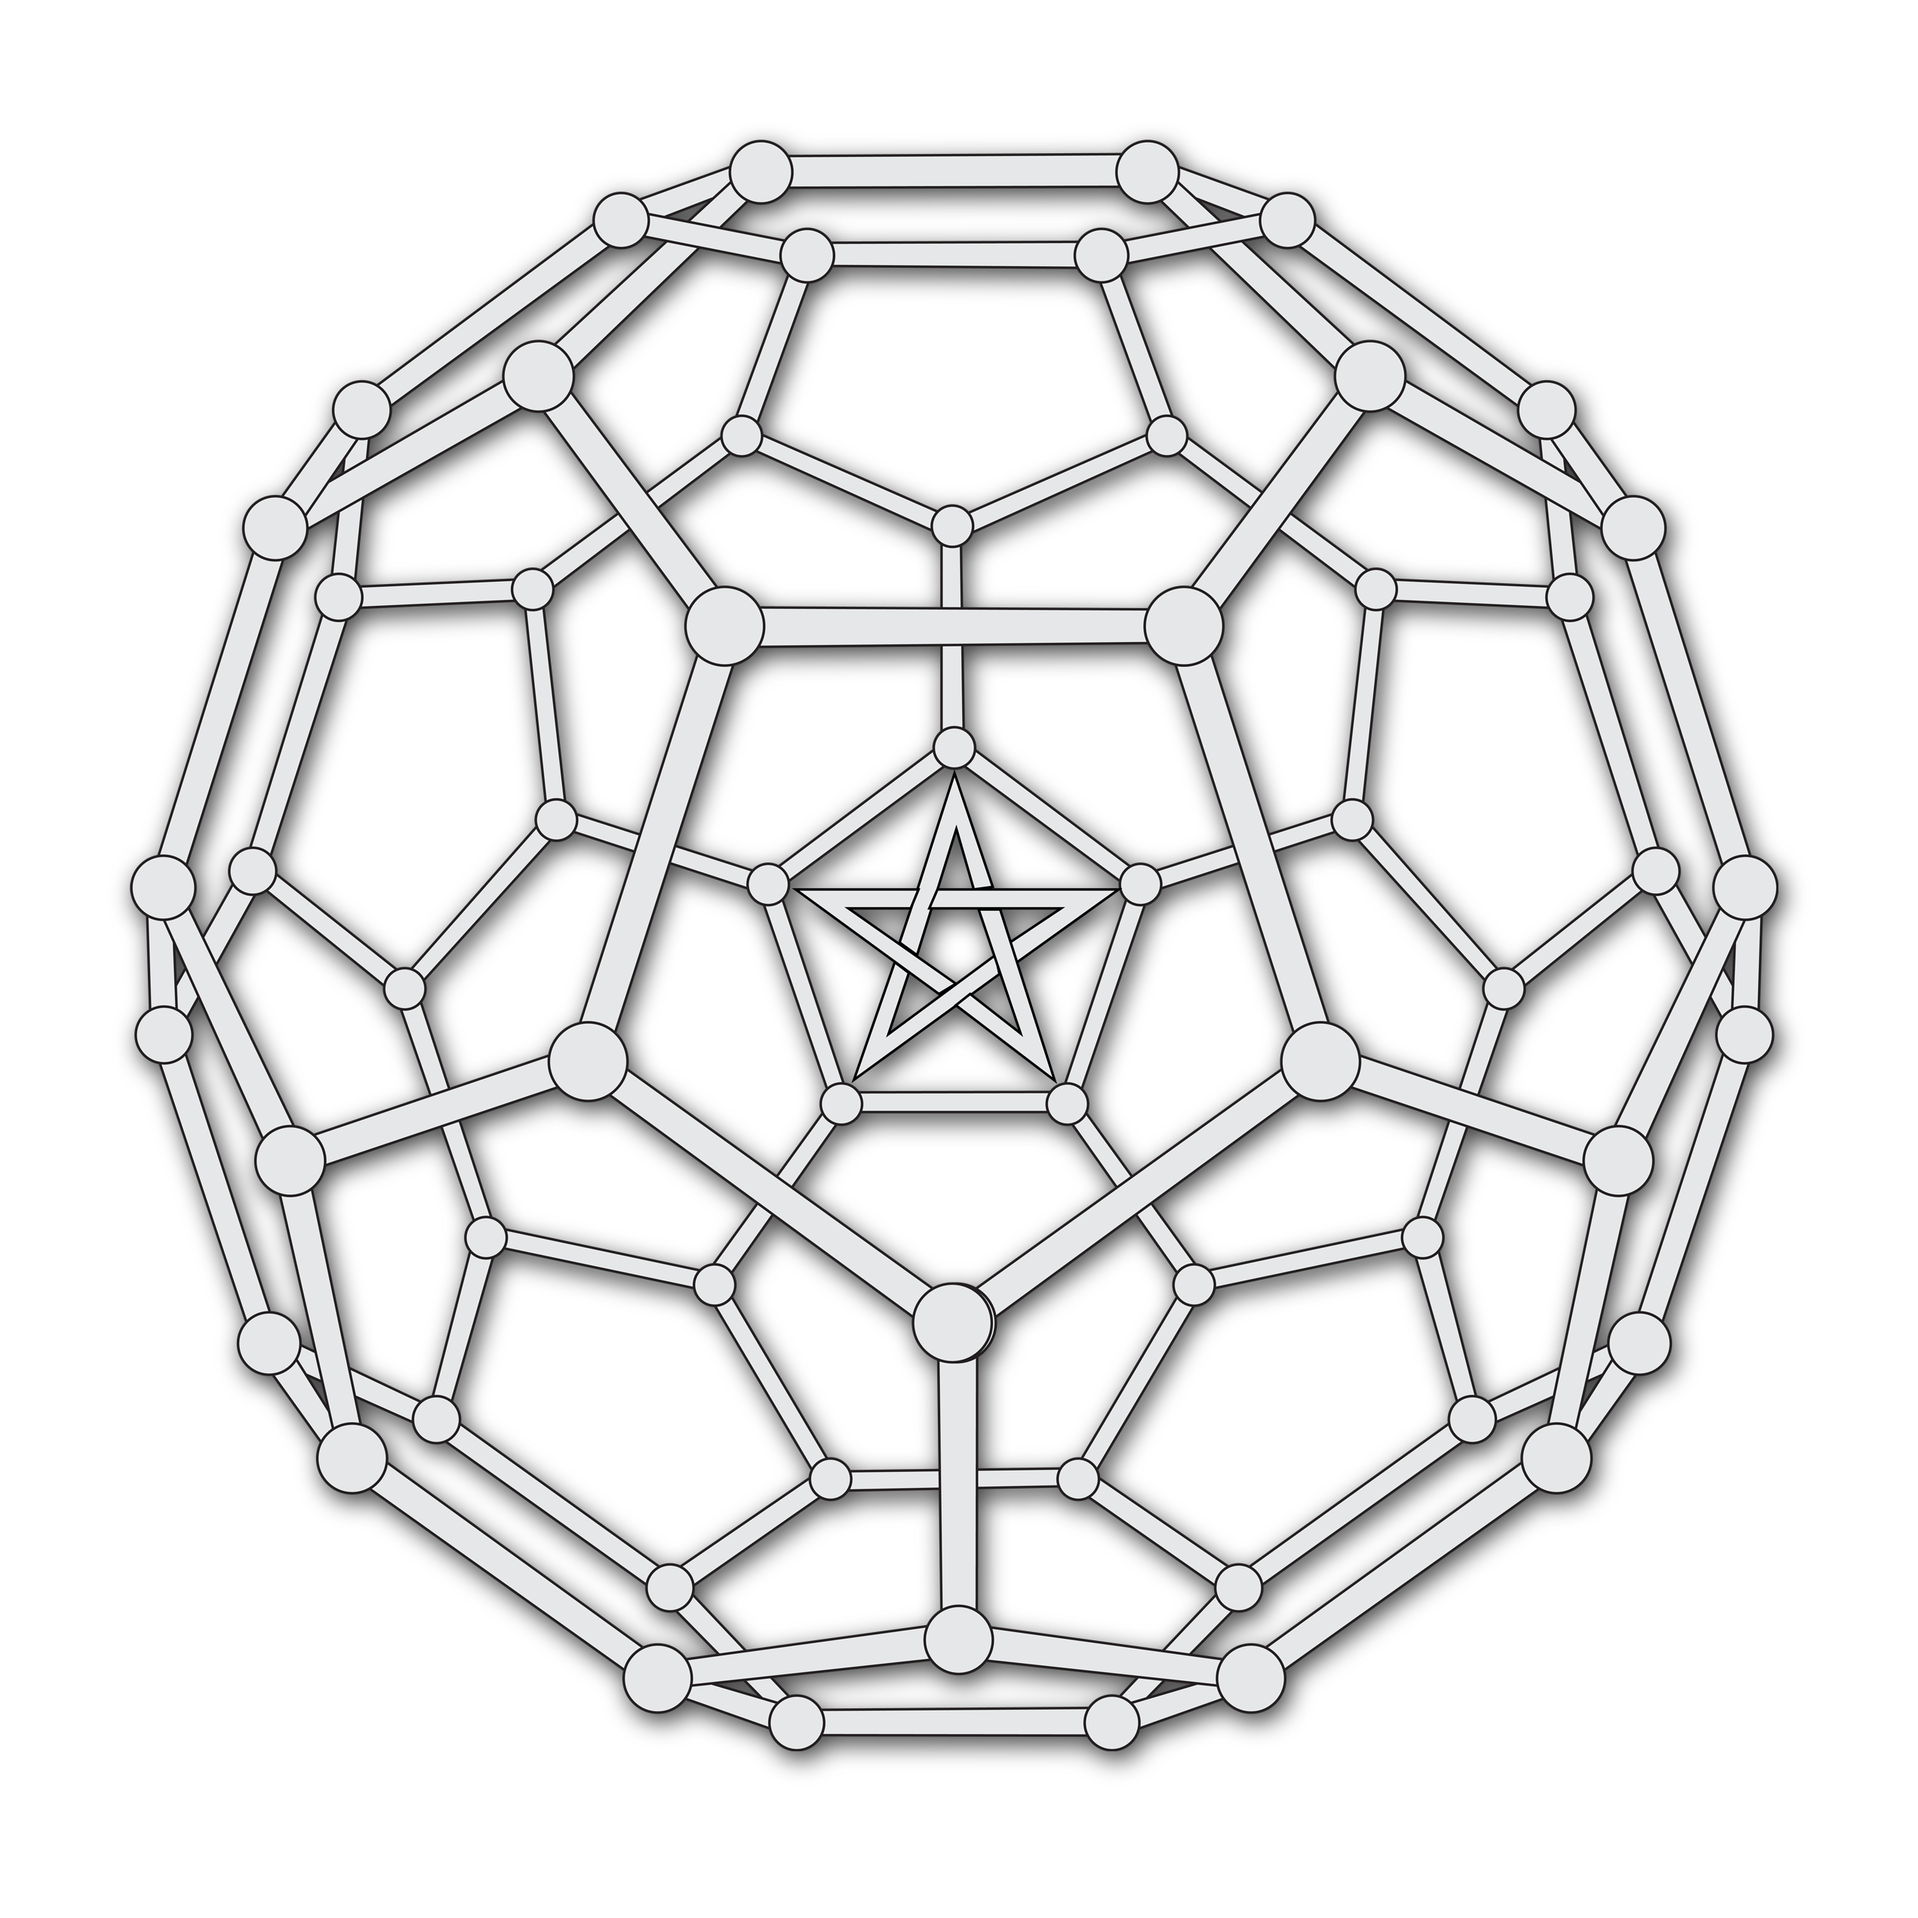
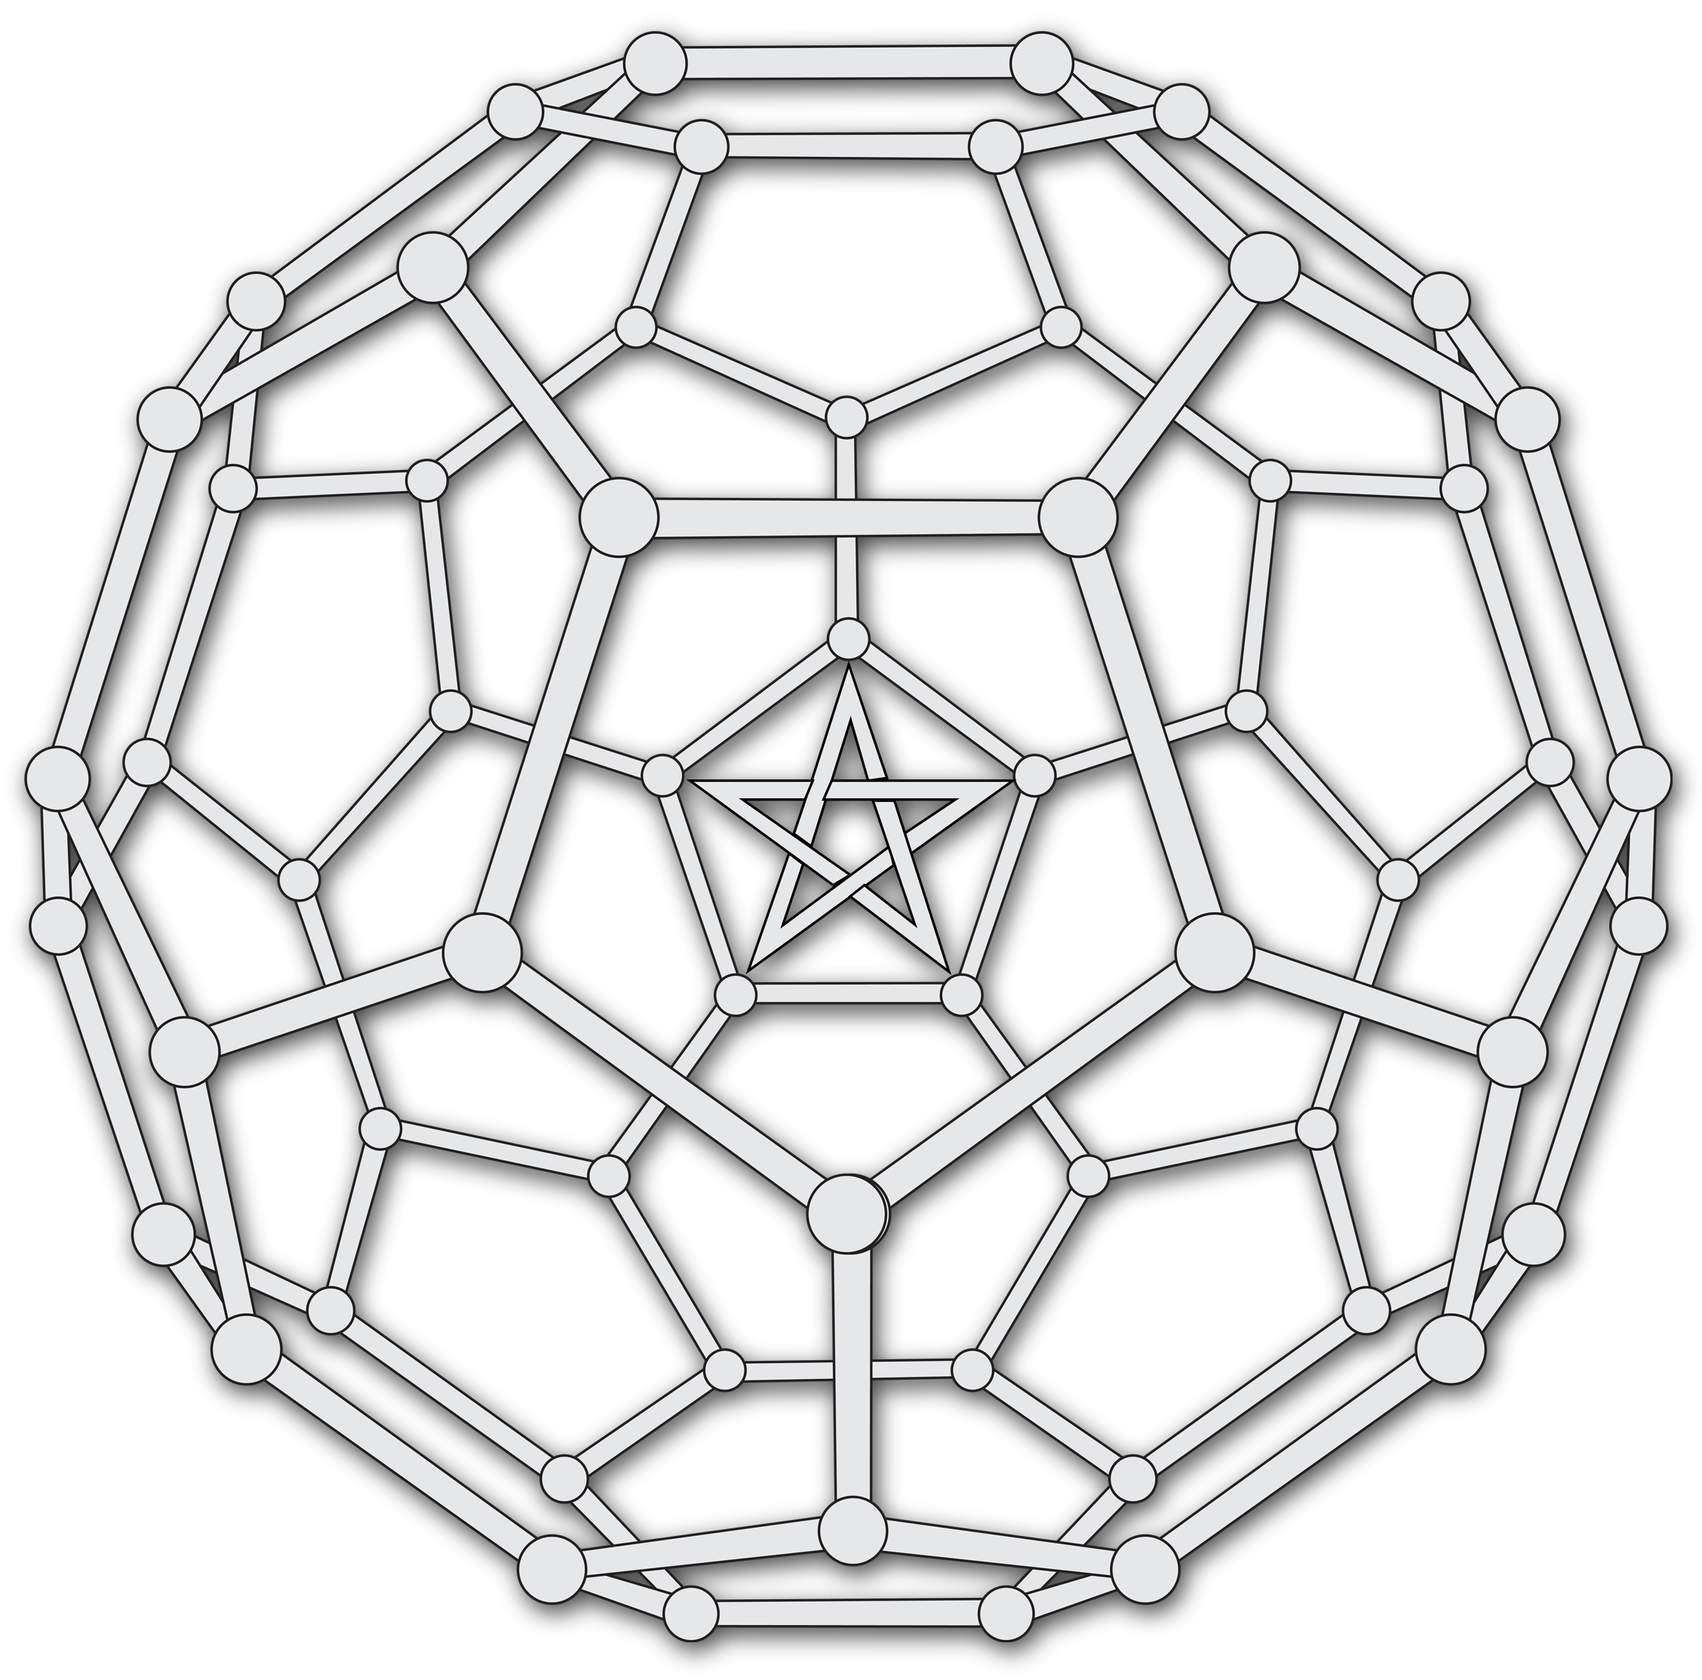
fussing with the css on the image

diff --git a/_sass/_layout.scss b/_sass/_layout.scss
@@ -2,23 +2,29 @@
 //
 // Styles for managing the structural hierarchy of the site.
 
-.container {
+
+.wrapper { 
+  //key to get the footer where i wanted it
+  display: flex;
+  flex-direction: column;
+  min-height: 100%;
+}
+
+.content {
+  flex-grow: 1; //key to get the footer where i wanted it
   max-width: 38rem;
   padding-left:  1.5rem;
   padding-right: 1.5rem;
   margin-left:  auto;
   margin-right: auto;
+  padding-top: 18px;
 }
 
 footer {
-  position: fixed;
-  left: 0;
-  bottom: 0;
   width: 100%;
   background-color: $swBlue; //red;
   color: white;
   text-align: center;
-  //margin: 0.5 rem;
   padding-block: 9px; /*vertical padding */
   line-height: 1rem;
 }
@@ -33,8 +39,8 @@ footer a {
   text-decoration: none;
   font-size: 2rem;
 }
+
 footer a:hover {
-  //font-size: 2.5rem; doesn't look great makes the footer change size
   color: white;
 }
 
@@ -44,20 +50,31 @@ footer img.avatar {
 }
 
 header {
-  //background-color: $swBlue; //red;
   background: $swBlue; //red;
-
-  //position: fixed;
-  //left: 0;
-  //bottom: 0;
   width: 100%;
-
-  //color: white;
-  //text-align: center;
-  //margin: 1 rem;
-  //padding-block: 20px; /*vertical padding */
 }
 
 .appStore {
   height: 63px;
 }
+
+.image-container {
+    height: 63%;
+    width: 63%; /* set the height of the container to 50% of its parent */
+    display: flex;
+    align-items: center;
+    justify-content: center;
+  }
+
+  .center-image {
+    //height: 100%; /* set the height of the image to 100% of its container */
+    //width: 100%;
+
+      display: block;
+    margin-left: auto;
+    margin-right: auto;
+    margin-top: auto;
+    margin-bottom: auto;
+    width: 90%;
+    height: 90%;
+  }

diff --git a/_layouts/default.html b/_layouts/default.html
@@ -5,19 +5,17 @@
 
   <body>
 
+<div class="wrapper">
+
     {% include navbar.html %}
 
-    <div class="container content">
-
-      
-      <main style="padding-bottom: 66px; padding-top: 33px;"> <!--TODO: move into css for bottom bar-->
-        {{ content }}
-      </main>
-
-      
-    </div>
+    <main class="content">
+      {{ content }}
+    </main>
 
     {% include footer.html %}
+
+</div>
 
     {% if site.analytics_id %}
      <script>
@@ -29,5 +27,7 @@
        ga('send', 'pageview');
      </script>
     {% endif %}
+
   </body>
+
 </html>

diff --git a/_sass/_base.scss b/_sass/_base.scss
@@ -8,10 +8,12 @@
           box-sizing: border-box;
 }
 
-html,
-body {
+html, body {
   margin: 0;
   padding: 0;
+  //key to get the footer where i wanted it
+  height: 100%;
+  width: 100%;
 }
 
 html {
@@ -55,6 +57,7 @@ a {
 img {
   display: block;
   max-width: 100%;
+  max-height: 80%;
   margin-left: auto;  //centers all imgs
   margin-right: auto; //centers all imgs
   border-radius: 5px;

diff --git a/index.md b/index.md
@@ -1,35 +1,8 @@
 ---
 layout: default
 title: Home
----
+---  
 
-![image](/public/SphericalWaveC60.png)
-
-<!-- <div class="posts">
-  {% for post in paginator.posts %}
-  <article class="post">
-    <h2 class="post-title">
-      <a title="{{ post.title }}" href="{{ site.baseurl }}{{ post.url }}">
-        {{ post.title }}
-      </a>
-    </h2>
-
-    <time datetime="{{ post.date | date_to_xmlschema }}" class="post-date">{{ post.date | date_to_string }}</time>
-
-    {{ post.excerpt }}
-  </article>
-  {% endfor %}
+<div>
+  <img src="/public/SphericalWaveC60.png" alt="Your Image" class="center-image">
 </div>
-
-<div class="pagination">
-  {% if paginator.next_page %}
-    <a class="pagination-item older" href="{{ paginator.next_page_path | prepend: site.baseurl }}">Older</a>
-  {% else %}
-    <span class="pagination-item older">Older</span>
-  {% endif %}
-  {% if paginator.previous_page %}
-    <a class="pagination-item newer" href="{{ paginator.previous_page_path | prepend: site.baseurl }}">Newer</a>
-  {% else %}
-    <span class="pagination-item newer">Newer</span>
-  {% endif %}
-</div> -->
